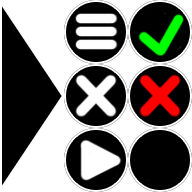
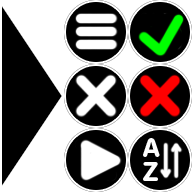
add option to sort browser items ascending or descending by name

Changed region(s): [[0.7188, 0.7188, 0.9688, 0.9688]]

diff --git a/osgc/src/BrowserState.cpp b/osgc/src/BrowserState.cpp
@@ -82,6 +82,7 @@ namespace
 #endif
 
     const std::string settingsFile("browser.cfg");
+    const auto ThumbnailSize = xy::DefaultSceneSize / 2.f; //make sure to scale all sprites to correct size
 
     struct PluginInfo final
     {
@@ -145,7 +146,8 @@ BrowserState::BrowserState(xy::StateStack& ss, xy::State::Context ctx, Game& gam
     m_slideshowIndex    (0),
     m_audioScape        (m_audioResource),
     m_locked            (true),
-    m_quitShown         (false)
+    m_quitShown         (false),
+    m_lastSort          (true)
 {
     launchLoadingScreen();
     
@@ -288,25 +290,7 @@ void BrowserState::handleMessage(const xy::Message& msg)
         const auto& data = msg.getData<SliderEvent>();
         if (data.action == SliderEvent::Finished)
         {
-            xy::Command cmd;
-            cmd.targetFlags = CommandID::BrowserNode;
-            cmd.action = [&](xy::Entity e, float)
-            {
-                auto& node = e.getComponent<BrowserNode>();
-                node.enabled = node.index == m_browserTargetIndex;
-
-                if (node.enabled)
-                {
-                    xy::Command cmd2;
-                    cmd2.targetFlags = CommandID::TitleText;
-                    cmd2.action = [&node](xy::Entity ee, float)
-                    {
-                        ee.getComponent<xy::Text>().setString(node.title);
-                    };
-                    m_scene.getSystem<xy::CommandSystem>().sendCommand(cmd2);
-                }
-            };
-            m_scene.getSystem<xy::CommandSystem>().sendCommand(cmd);
+            enableItem();
         }
     }
 
@@ -421,6 +405,7 @@ void BrowserState::loadResources()
     SpriteID::sprites[SpriteID::Quit] = spriteSheet.getSprite("close");
     SpriteID::sprites[SpriteID::Yes] = spriteSheet.getSprite("yes");
     SpriteID::sprites[SpriteID::No] = spriteSheet.getSprite("no");
+    SpriteID::sprites[SpriteID::Sort] = spriteSheet.getSprite("sort");
 
     m_audioScape.loadFromFile("assets/sound/ui.xas");
 }
@@ -455,7 +440,6 @@ void BrowserState::buildMenu()
         }
     };
 
-    static const auto ThumbnailSize = xy::DefaultSceneSize / 2.f; //make sure to scale all sprites to correct size
     auto applyVertices = [](xy::Drawable & drawable)
     {
         auto& verts = drawable.getVertices();
@@ -502,6 +486,27 @@ void BrowserState::buildMenu()
     entity = m_scene.createEntity();
     entity.addComponent<xy::Transform>();
     entity.addComponent<xy::Drawable>();
+    entity.addComponent<xy::Sprite>() = SpriteID::sprites[SpriteID::Sort];
+    auto sortBounds = entity.getComponent<xy::Sprite>().getTextureBounds();
+    entity.getComponent<xy::Transform>().setPosition(xy::DefaultSceneSize.x - ((sortBounds.width + ItemPadding) * 3.f), ItemPadding);
+    entity.addComponent<UINode>();
+    entity.addComponent<xy::CommandTarget>().ID = CommandID::UINode;
+    entity.addComponent<xy::UIHitBox>().area = sortBounds;
+    entity.getComponent<xy::UIHitBox>().callbacks[xy::UIHitBox::MouseUp] =
+        m_scene.getSystem<xy::UISystem>().addMouseButtonCallback(
+            [&](xy::Entity e, sf::Uint64 flags) 
+            {
+                if(flags & xy::UISystem::LeftMouse
+                    && e.getComponent<UINode>().enabled)
+                {
+                    sortNodes(!m_lastSort);
+                    enableItem();
+                }
+            });
+
+    entity = m_scene.createEntity();
+    entity.addComponent<xy::Transform>();
+    entity.addComponent<xy::Drawable>();
     entity.addComponent<xy::Sprite>() = SpriteID::sprites[SpriteID::Options];
     auto optionBounds = entity.getComponent<xy::Sprite>().getTextureBounds();
     entity.getComponent<xy::Transform>().setPosition(xy::DefaultSceneSize.x - ((optionBounds.width + ItemPadding) * 2.f), ItemPadding);
@@ -510,9 +515,9 @@ void BrowserState::buildMenu()
     entity.addComponent<xy::UIHitBox>().area = optionBounds;
     entity.getComponent<xy::UIHitBox>().callbacks[xy::UIHitBox::MouseUp] =
         m_scene.getSystem<xy::UISystem>().addMouseButtonCallback(
-            [](xy::Entity e, sf::Uint64 flags) 
+            [](xy::Entity e, sf::Uint64 flags)
             {
-                if(flags & xy::UISystem::LeftMouse
+                if (flags & xy::UISystem::LeftMouse
                     && e.getComponent<UINode>().enabled)
                 {
                     xy::Console::show();
@@ -589,7 +594,7 @@ void BrowserState::buildMenu()
     //game plugin nodes
     sf::Vector2f nodePosition = xy::DefaultSceneSize / 2.f;
     nodePosition.y += (ThumbnailSize.y * 0.6f) / 2.f;
-    const sf::Vector2f basePosition = nodePosition;
+    m_basePosition = nodePosition;
     m_browserTargets.emplace_back();
 
     //callback when clicking node
@@ -607,7 +612,6 @@ void BrowserState::buildMenu()
     std::size_t i = 0;
 
     auto pluginList = xy::FileSystem::listDirectories(xy::FileSystem::getResourcePath() + pluginFolder);
-    std::sort(pluginList.begin(), pluginList.end()); //not all OSs list alphabetically
     for (const auto& dir : pluginList)
     {
         //check plugin exists
@@ -655,16 +659,12 @@ void BrowserState::buildMenu()
         entity.addComponent<xy::UIHitBox>().area = { sf::Vector2f(), ThumbnailSize };
         entity.getComponent<xy::UIHitBox>().callbacks[xy::UIHitBox::MouseUp] = nodeCallback;            
 
+        //store node entity so we can sort by name
+        m_nodeList.emplace_back(std::make_pair(entity, info.name));
+
         auto& parentTx = entity.getComponent<xy::Transform>();
 
         std::uint32_t textSize = 24;
-        /*entity = m_scene.createEntity();
-        entity.addComponent<xy::Transform>().setPosition(ItemPadding, ItemPadding);
-        entity.addComponent<xy::Text>(menuFont).setString(info.name);
-        entity.getComponent<xy::Text>().setCharacterSize(textSize);
-        entity.getComponent<xy::Text>().setFillColour(sf::Color::Black);
-        entity.addComponent<xy::Drawable>().setDepth(TextDepth);
-        parentTx.addChild(entity.getComponent<xy::Transform>());*/
 
         if (!info.version.empty())
         {
@@ -701,9 +701,12 @@ void BrowserState::buildMenu()
         nodePosition.x += ThumbnailSize.x * 1.2f;
 
         rootNode.addChild(parentTx);
-        m_browserTargets.push_back(nodePosition - basePosition);
+        m_browserTargets.push_back(nodePosition - m_basePosition);
         m_browserTargets.back().x = -m_browserTargets.back().x;
     }
+
+    //sort nodes alphabetically. Quit node (below) is ignore so it is always last
+    sortNodes(true);
 
     //add one extra item to quit the browser
     entity = m_scene.createEntity();
@@ -1022,6 +1025,29 @@ void BrowserState::execItem()
     m_scene.getSystem<xy::CommandSystem>().sendCommand(cmd);
 }
 
+void BrowserState::enableItem()
+{
+    xy::Command cmd;
+    cmd.targetFlags = CommandID::BrowserNode;
+    cmd.action = [&](xy::Entity e, float)
+    {
+        auto& node = e.getComponent<BrowserNode>();
+        node.enabled = node.index == m_browserTargetIndex;
+
+        if (node.enabled)
+        {
+            xy::Command cmd2;
+            cmd2.targetFlags = CommandID::TitleText;
+            cmd2.action = [&node](xy::Entity ee, float)
+            {
+                ee.getComponent<xy::Text>().setString(node.title);
+            };
+            m_scene.getSystem<xy::CommandSystem>().sendCommand(cmd2);
+        }
+    };
+    m_scene.getSystem<xy::CommandSystem>().sendCommand(cmd);
+}
+
 void BrowserState::showQuit()
 {
     if (m_locked)
@@ -1209,6 +1235,37 @@ void BrowserState::hideQuit()
     m_scene.getSystem<xy::CommandSystem>().sendCommand(cmd);
 
     m_quitShown = false;
+}
+
+void BrowserState::sortNodes(bool asc)
+{
+    if (asc)
+    {
+        std::sort(m_nodeList.begin(), m_nodeList.end(),
+            [](const std::pair<xy::Entity, std::string>& a, const std::pair<xy::Entity, std::string>& b)
+            {
+                return a.second < b.second;
+            });
+    }
+    else
+    {
+        std::sort(m_nodeList.begin(), m_nodeList.end(),
+            [](const std::pair<xy::Entity, std::string> & a, const std::pair<xy::Entity, std::string> & b)
+            {
+                return a.second > b.second;
+            });
+    }
+    m_lastSort = asc;
+
+    auto nodePos = m_basePosition;
+    auto stride = ThumbnailSize.x * 1.2f;
+
+    for (auto i = 0u; i < m_nodeList.size(); ++i)
+    {
+        m_nodeList[i].first.getComponent<xy::Transform>().setPosition(nodePos);
+        m_nodeList[i].first.getComponent<BrowserNode>().index = i;
+        nodePos.x += stride;
+    }
 }
 
 void BrowserState::updateLoadingScreen(float dt, sf::RenderWindow& rw)

diff --git a/osgc/include/BrowserState.hpp b/osgc/include/BrowserState.hpp
@@ -78,6 +78,10 @@ private:
     bool m_locked; //locks the browser until the intro is finished
     bool m_quitShown;
 
+    std::vector<std::pair<xy::Entity, std::string>> m_nodeList;
+    sf::Vector2f m_basePosition; //initial node position
+    bool m_lastSort;
+
     struct Settings final
     {
         bool useSlideshow = false;
@@ -93,9 +97,12 @@ private:
     void nextItem();
     void prevItem();
     void execItem();
+    void enableItem();
 
     void showQuit();
     void hideQuit();
+
+    void sortNodes(bool asc);
 
     void updateLoadingScreen(float, sf::RenderWindow&) override;
 };

diff --git a/osgc/include/ResourceIDs.hpp b/osgc/include/ResourceIDs.hpp
@@ -56,6 +56,7 @@ namespace SpriteID
         Quit,
         Yes,
         No,
+        Sort,
 
         Count
     };
